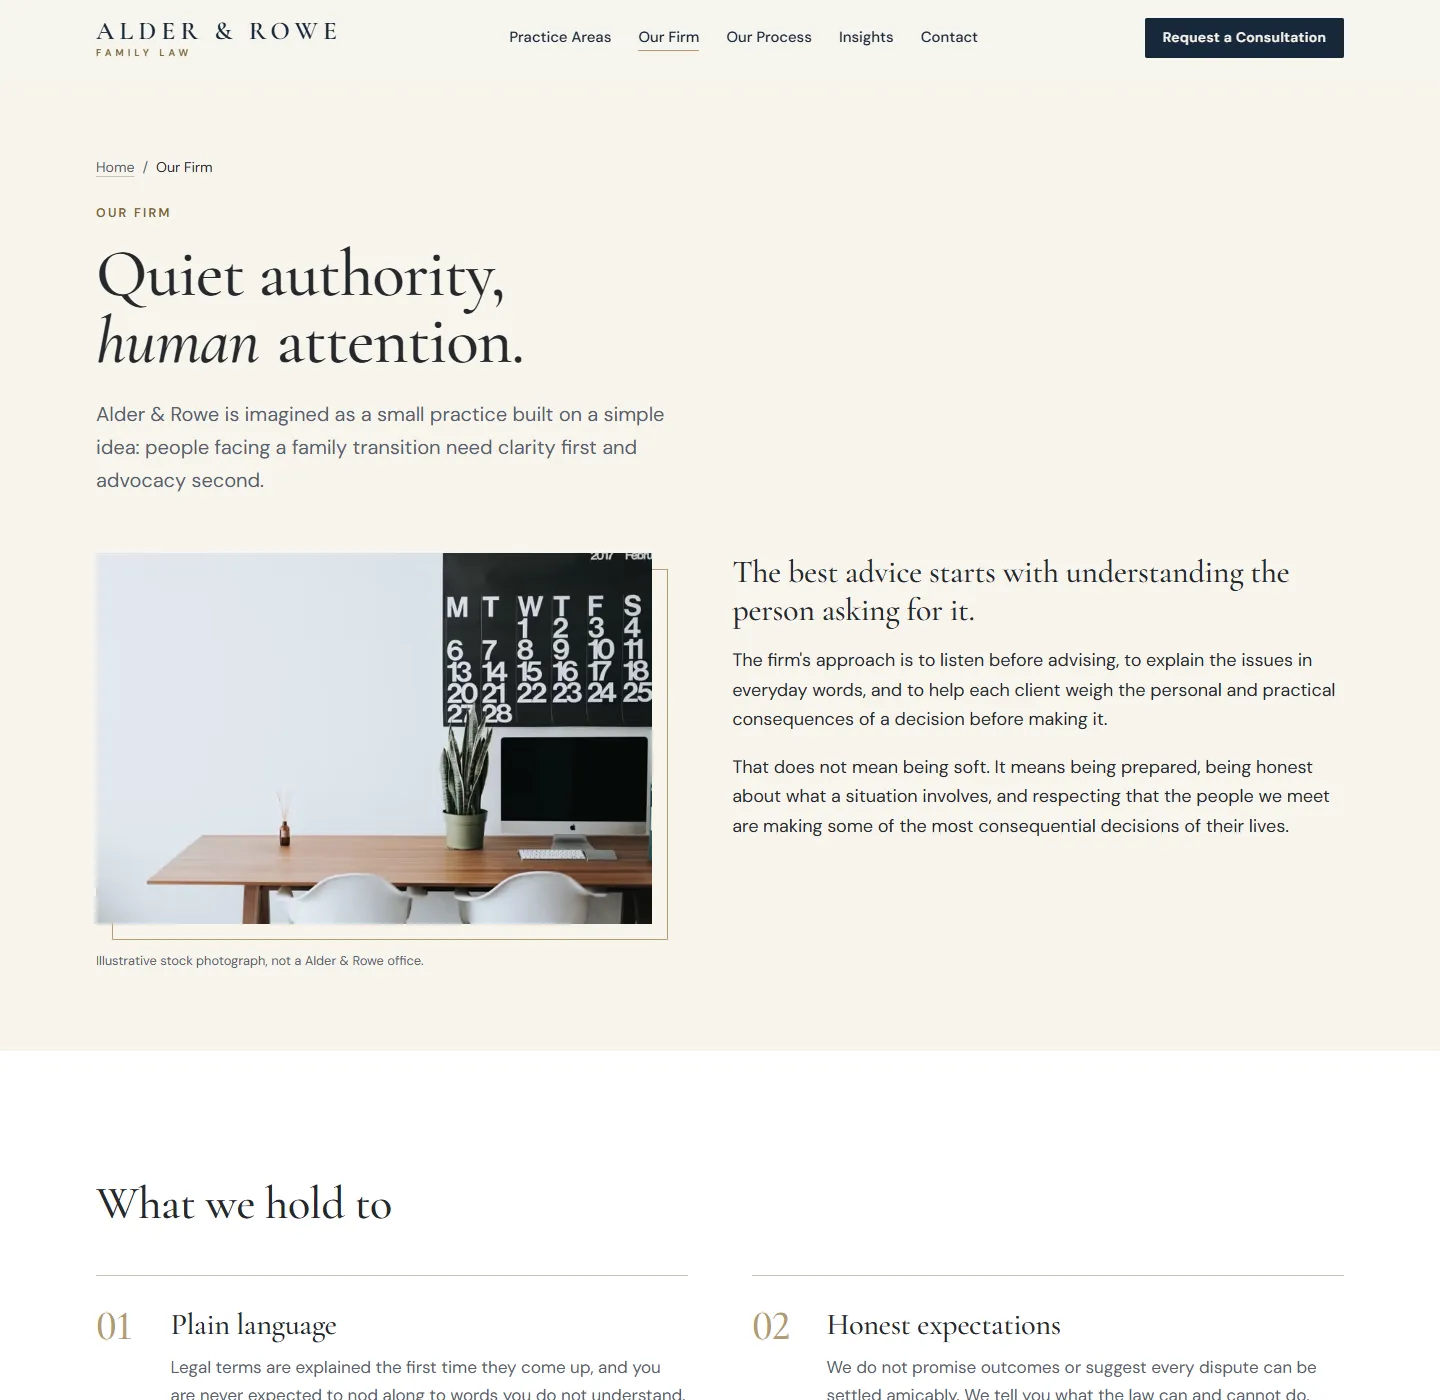
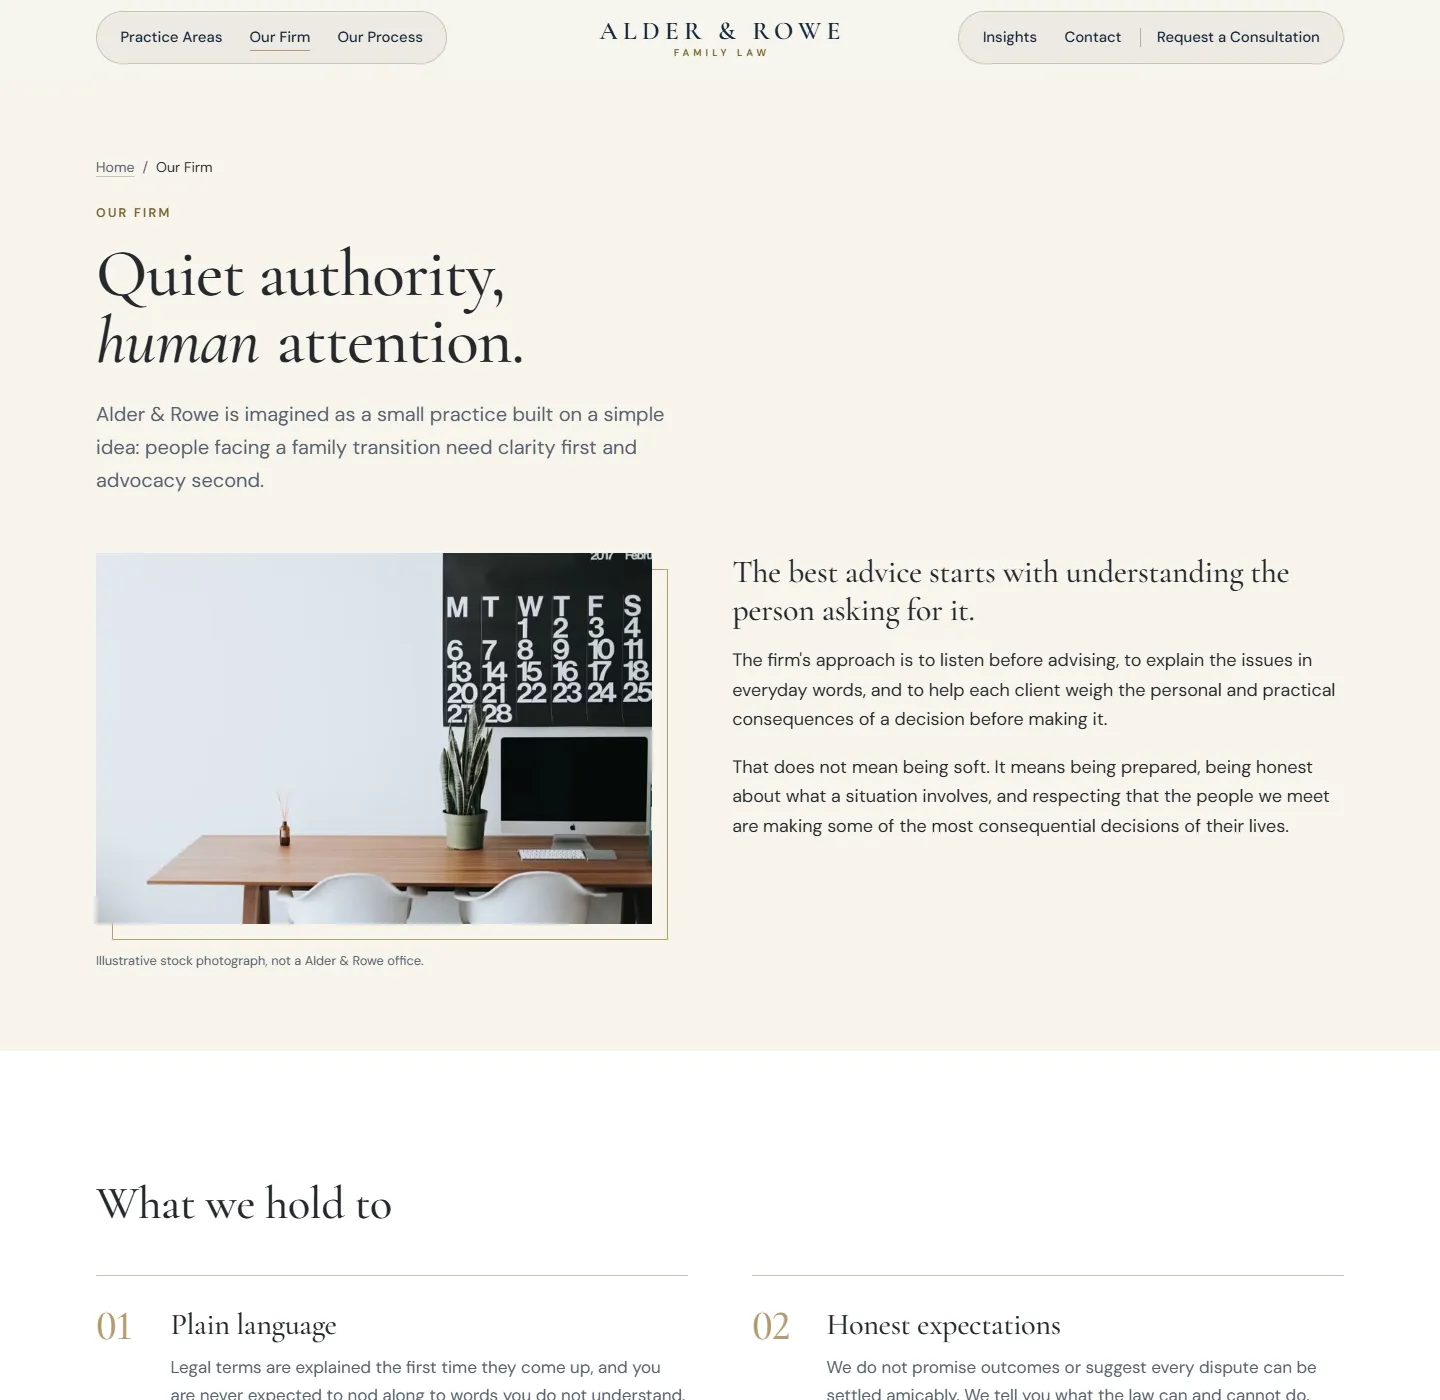
Refresh the Alder & Rowe project screenshots for the new hero and header

diff --git a/src/data/image-sizes.generated.ts b/src/data/image-sizes.generated.ts
@@ -18,7 +18,7 @@ export const imageSizes: Record<string, { width: number; height: number }> = {
   "certifications/Certificate (Scrum-Fundamentals-Certified).png": { width: 878, height: 677 },
   "certifications/Certificate (Six-Sigma-Yellow-Belt).png": { width: 877, height: 676 },
   "certifications/Certificate (Tata - Data Visualisation).png": { width: 1263, height: 893 },
-  "product_showcase/_collage/alder-rowe.webp": { width: 1600, height: 3256 },
+  "product_showcase/_collage/alder-rowe.webp": { width: 1600, height: 3173 },
   "product_showcase/_collage/gloria-may-byron.webp": { width: 1600, height: 2935 },
   "product_showcase/_collage/hearthline-realty.webp": { width: 1600, height: 2309 },
   "product_showcase/_collage/velora-beauty.webp": { width: 1600, height: 2389 },

diff --git a/src/data/mobile-tones.generated.ts b/src/data/mobile-tones.generated.ts
@@ -7,9 +7,9 @@ export type MobileTone = {
 };
 export const mobileTones: Record<string, MobileTone> = {
   "product_showcase/_mobile/alder-rowe-1.webp": {
-    top: "#f6f5ed",
-    topLight: true,
-    bottom: "#898a83",
+    top: "#262a2f",
+    topLight: false,
+    bottom: "#1c2735",
     bottomLight: false,
   },
   "product_showcase/_mobile/alder-rowe-2.webp": {
